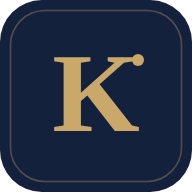
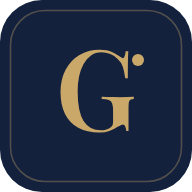
Rename app from Kova to Gochat

Changed region(s): [[0.2812, 0.25, 0.75, 0.7188]]

diff --git a/src/pages/SettingsPage.jsx b/src/pages/SettingsPage.jsx
@@ -193,14 +193,14 @@ function Notifications() {
     if (p === 'granted') {
       setPrefs({ notifications: true });
       const ok = await enablePush();
-      toast(ok ? 'Notifications are on — even when Kova is closed' : 'Notifications are on while Kova is open', { icon: 'notifications_active' });
+      toast(ok ? 'Notifications are on — even when Gochat is closed' : 'Notifications are on while Gochat is open', { icon: 'notifications_active' });
     }
     else toast('Notifications were blocked. You can allow them in your browser’s site settings.', { error: true });
   };
   return (
     <Card title="Notifications & chimes" icon="notifications">
       <div className="divide-y divide-[rgb(var(--line)/0.15)]">
-        <SettingRow title="Desktop & phone alerts" sub={perm === 'granted' ? (pushSupported() ? 'You will be alerted even when Kova is closed' : 'Shown while Kova is open in the background') : perm === 'denied' ? 'Blocked in your browser settings' : perm === 'unsupported' ? 'Not supported in this browser' : 'Allow Kova to show alerts'}>
+        <SettingRow title="Desktop & phone alerts" sub={perm === 'granted' ? (pushSupported() ? 'You will be alerted even when Gochat is closed' : 'Shown while Gochat is open in the background') : perm === 'denied' ? 'Blocked in your browser settings' : perm === 'unsupported' ? 'Not supported in this browser' : 'Allow Gochat to show alerts'}>
           {perm === 'granted' ? <Toggle checked={prefs.notifications} onChange={(v) => { setPrefs({ notifications: v }); if (v) enablePush(); else disablePush(); }} /> :
             <button className="btn-outline !h-9 !px-3" onClick={ask} disabled={perm === 'unsupported' || perm === 'denied'}>Allow</button>}
         </SettingRow>
@@ -211,7 +211,7 @@ function Notifications() {
           </div>
         </SettingRow>
       </div>
-      <p className="text-xs text-muted mt-4 leading-5">Tip: on phones, add Kova to your home screen (browser menu → “Add to Home screen”) so it opens like an app. On iPhone, notifications only work after adding Kova to the home screen (iOS 16.4 or later).</p>
+      <p className="text-xs text-muted mt-4 leading-5">Tip: on phones, add Gochat to your home screen (browser menu → “Add to Home screen”) so it opens like an app. On iPhone, notifications only work after adding Gochat to the home screen (iOS 16.4 or later).</p>
     </Card>
   );
 }
@@ -309,32 +309,32 @@ function Account() {
 function About() {
   const { me, toast } = useApp();
   const share = async () => {
-    const text = `Join me on Kova — find me as @${me.username}: ${window.location.origin}`;
-    try { if (navigator.share) await navigator.share({ title: 'Kova', text }); else { await navigator.clipboard.writeText(text); toast('Invite copied'); } } catch { /* ignore */ }
+    const text = `Join me on Gochat — find me as @${me.username}: ${window.location.origin}`;
+    try { if (navigator.share) await navigator.share({ title: 'Gochat', text }); else { await navigator.clipboard.writeText(text); toast('Invite copied'); } } catch { /* ignore */ }
   };
   return (
     <div className="space-y-5">
       <Card>
         <div className="flex flex-col items-center text-center py-4">
           <img src="/icon-192.png" alt="" className="w-20 h-20 rounded-[22%] shadow-lvl2" />
-          <h2 className="font-serif text-3xl tracking-[0.08em] text-ink mt-4">KOVA</h2>
+          <h2 className="font-serif text-3xl tracking-[0.08em] text-ink mt-4">GOCHAT</h2>
           <p className="font-serif italic text-gold-ink text-lg">Speak freely, stay close</p>
           <p className="text-xs text-muted mt-2">Version 1.0</p>
         </div>
       </Card>
-      <Card title="How Kova works" icon="help">
+      <Card title="How Gochat works" icon="help">
         <ul className="space-y-3 text-sm text-ink/90">
           {[
             ['chat_bubble', 'Find friends by their @username and chat in real time — with photos, videos, documents and voice notes.'],
             ['groups', 'Create groups, share an invite link, and make other members admins.'],
             ['hub', 'Start a channel to publish posts. Followers react and comment; comments arrive in your Activity inbox.'],
-            ['call', 'Voice and video calls connect your two devices directly. Both people need Kova open.'],
+            ['call', 'Voice and video calls connect your two devices directly. Both people need Gochat open.'],
             ['auto_awesome', 'Moments are shared with people you chat with and vanish after 24 hours.'],
           ].map(([i, t]) => <li key={t} className="flex gap-3"><Icon name={i} size={20} className="text-gold-ink mt-0.5" /> <span>{t}</span></li>)}
         </ul>
         <button className="btn-primary w-full mt-5" onClick={share}><Icon name="share" size={18} /> Invite friends</button>
       </Card>
-      <Quote cite="Kova">Words composed with care endure like bronze.</Quote>
+      <Quote cite="Gochat">Words composed with care endure like bronze.</Quote>
     </div>
   );
 }

diff --git a/src/pages/Welcome.jsx b/src/pages/Welcome.jsx
@@ -41,7 +41,7 @@ export default function Welcome() {
         <div className="absolute -right-10 -top-10 w-[300px] h-[300px] rounded-full border border-[#C9A86A]/20" />
         <div className="flex items-center gap-3 relative">
           <Logo size={44} className="!shadow-none" />
-          <span className="font-serif text-2xl tracking-[0.2em]">KOVA</span>
+          <span className="font-serif text-2xl tracking-[0.2em]">GOCHAT</span>
         </div>
         <div className="relative max-w-md">
           <p className="text-[11px] tracking-[0.2em] uppercase text-[#C9A86A] mb-4">Correspondence, refined</p>
@@ -81,10 +81,10 @@ export default function Welcome() {
             <div className="relative mb-5">
               <div className="absolute inset-0 rounded-full bg-gold/30 blur-xl" />
               <div className="relative w-20 h-20 rounded-full bg-[#14213D] flex items-center justify-center ring-1 ring-gold/40">
-                <span className="font-serif text-4xl text-[#C9A86A]">K</span>
+                <span className="font-serif text-4xl text-[#C9A86A]">G</span>
               </div>
             </div>
-            <h1 className="font-serif text-[40px] leading-none tracking-[0.06em] text-ink">KOVA</h1>
+            <h1 className="font-serif text-[40px] leading-none tracking-[0.06em] text-ink">GOCHAT</h1>
             <p className="font-serif italic text-2xl text-gold-ink mt-3">Speak freely, stay close</p>
             <div className="gold-rule w-20 mt-5" />
           </div>
@@ -94,7 +94,7 @@ export default function Welcome() {
               <span className="eyebrow">{mode === 'register' ? 'Step 01 / Registry' : 'Welcome back'}</span>
               <span className="text-label-md text-muted">Confidential</span>
             </div>
-            <h2 className="font-serif text-[26px] text-ink">{mode === 'register' ? 'Create your account' : 'Sign in to Kova'}</h2>
+            <h2 className="font-serif text-[26px] text-ink">{mode === 'register' ? 'Create your account' : 'Sign in to Gochat'}</h2>
             <p className="text-sm text-muted mt-1 mb-5 leading-6">
               {mode === 'register'
                 ? 'Claim your name and start writing to the people who matter.'
@@ -187,7 +187,7 @@ export default function Welcome() {
           <Icon name="history_edu" className="text-gold-ink mt-1" />
           <div>
             <p className="font-serif italic text-xl leading-7 text-ink">“True conversation is an heirloom, treasured in deliberate silence.”</p>
-            <p className="eyebrow mt-2">The Kova Companion</p>
+            <p className="eyebrow mt-2">The Gochat Companion</p>
           </div>
         </div>
       </div>

diff --git a/src/pages/ChatList.jsx b/src/pages/ChatList.jsx
@@ -74,9 +74,9 @@ export default function ChatList() {
   const [showArchived, setShowArchived] = useState(false);
   const { setPrefs, toast } = useApp();
   const [askNotif, setAskNotif] = useState(() => {
-    try { return 'Notification' in window && Notification.permission === 'default' && !localStorage.getItem('kova.notifAsked'); } catch { return false; }
+    try { return 'Notification' in window && Notification.permission === 'default' && !localStorage.getItem('gochat.notifAsked'); } catch { return false; }
   });
-  const dismissNotif = () => { setAskNotif(false); try { localStorage.setItem('kova.notifAsked', '1'); } catch { /* ignore */ } };
+  const dismissNotif = () => { setAskNotif(false); try { localStorage.setItem('gochat.notifAsked', '1'); } catch { /* ignore */ } };
   const turnOnNotif = async () => {
     dismissNotif();
     const p = await Notification.requestPermission();
@@ -121,7 +121,7 @@ export default function ChatList() {
         <div className="h-16 px-4 flex items-center gap-3">
           <Logo size={34} className="md:hidden" />
           <div className="flex-1 min-w-0">
-            <div className="eyebrow leading-none">Kova</div>
+            <div className="eyebrow leading-none">Gochat</div>
             <h1 className="font-serif text-[24px] leading-8 text-ink">{showArchived ? 'Archived' : 'Chats'}</h1>
           </div>
           <button className="btn-ghost" onClick={() => navigate('/new')} aria-label="New chat" title="New chat">
@@ -168,7 +168,7 @@ export default function ChatList() {
           <span className="w-10 h-10 rounded-full bg-gold-soft text-gold-ink flex items-center justify-center shrink-0"><Icon name="notifications_active" size={20} /></span>
           <div className="flex-1">
             <div className="font-medium text-ink">Never miss a message</div>
-            <p className="text-xs text-muted mt-0.5 leading-5">Turn on notifications to be alerted when friends write or call — even when Kova is closed.</p>
+            <p className="text-xs text-muted mt-0.5 leading-5">Turn on notifications to be alerted when friends write or call — even when Gochat is closed.</p>
             <div className="flex gap-2 mt-3">
               <button className="btn-primary !h-9 !px-4" onClick={turnOnNotif}>Turn on</button>
               <button className="btn-outline !h-9 !px-4" onClick={dismissNotif}>Not now</button>

diff --git a/src/pages/ContactProfile.jsx b/src/pages/ContactProfile.jsx
@@ -50,7 +50,7 @@ export default function ContactProfile() {
           </div>
           <div className="relative mt-3 inline-flex items-center gap-2 px-3 h-7 rounded-full bg-soft text-label-md text-ink/80">
             {live.online && <span className="w-1.5 h-1.5 rounded-full bg-gold" />}
-            {user.blockedMe ? 'Kova member' : lastSeen(live)}
+            {user.blockedMe ? 'Gochat member' : lastSeen(live)}
           </div>
           <h2 className="relative font-serif text-3xl text-ink mt-3">{user.name}</h2>
           <p className="relative text-sm text-muted mt-1">@{user.username}</p>
@@ -62,7 +62,7 @@ export default function ContactProfile() {
               ['call', 'Audio', () => startCall(user, 'voice'), false, blocked || user.blockedMe],
               ['videocam', 'Video', () => startCall(user, 'video'), false, blocked || user.blockedMe],
               ['share', 'Share', async () => {
-                const t = `Find ${user.name} on Kova: @${user.username} — ${window.location.origin}`;
+                const t = `Find ${user.name} on Gochat: @${user.username} — ${window.location.origin}`;
                 try { if (navigator.share) await navigator.share({ text: t }); else { await navigator.clipboard.writeText(t); toast('Copied'); } } catch { /* ignore */ }
               }],
             ].map(([icon, label, fn, primary, disabled]) => (
@@ -79,7 +79,7 @@ export default function ContactProfile() {
         <div className="card p-5">
           <div className="flex items-center justify-between mb-4">
             <h3 className="font-serif text-xl text-ink flex items-center gap-2"><Icon name="verified_user" className="text-gold-ink" /> Identity</h3>
-            <span className="eyebrow">Kova registry</span>
+            <span className="eyebrow">Gochat registry</span>
           </div>
           <div className="space-y-3">
             <div className="flex items-center gap-3 p-3 rounded-xl bg-soft/70">
@@ -139,7 +139,7 @@ export default function ContactProfile() {
             <Icon name="block" />
           </button>
         </div>
-        <Quote cite="Kova">A sanctuary of quiet discretion.</Quote>
+        <Quote cite="Gochat">A sanctuary of quiet discretion.</Quote>
       </div>
       <Confirm
         open={confirm}

diff --git a/src/pages/CallList.jsx b/src/pages/CallList.jsx
@@ -29,7 +29,7 @@ export default function CallList() {
         <div className="h-16 px-4 flex items-center gap-3">
           <Logo size={34} className="md:hidden" />
           <div className="flex-1">
-            <div className="eyebrow leading-none">Kova</div>
+            <div className="eyebrow leading-none">Gochat</div>
             <h1 className="font-serif text-[24px] leading-8 text-ink">Calls</h1>
           </div>
           <button className="btn-ghost" onClick={() => setPicking((p) => !p)} aria-label="New call" title="New call"><Icon name={picking ? 'close' : 'add_call'} /></button>
@@ -115,14 +115,14 @@ export default function CallList() {
           <div className="text-center py-12 px-6">
             <Icon name="call" size={40} className="text-gold-ink/70" />
             <p className="font-serif text-xl text-ink mt-2">{filter === 'missed' ? 'No missed calls' : 'No calls yet'}</p>
-            <p className="text-sm text-muted mt-1">Tap the phone icon in any chat to call. Both of you need Kova open.</p>
+            <p className="text-sm text-muted mt-1">Tap the phone icon in any chat to call. Both of you need Gochat open.</p>
           </div>
         )}
         <div className="card mt-6 p-4 flex gap-3">
           <span className="w-10 h-10 rounded-full bg-soft flex items-center justify-center text-gold-ink shrink-0"><Icon name="shield" /></span>
           <div>
             <div className="font-medium text-ink">Device-to-device calls</div>
-            <p className="text-xs text-muted leading-5 mt-0.5">Audio and video travel directly between your devices over an encrypted WebRTC connection. Kova only helps the two devices find each other.</p>
+            <p className="text-xs text-muted leading-5 mt-0.5">Audio and video travel directly between your devices over an encrypted WebRTC connection. Gochat only helps the two devices find each other.</p>
           </div>
         </div>
       </div>

diff --git a/src/pages/NewChat.jsx b/src/pages/NewChat.jsx
@@ -42,9 +42,9 @@ export default function NewChat() {
   };
 
   const invite = async () => {
-    const text = `Join me on Kova — a classic, private messenger. Sign up and find me as @${me.username}: ${window.location.origin}`;
+    const text = `Join me on Gochat — a classic, private messenger. Sign up and find me as @${me.username}: ${window.location.origin}`;
     try {
-      if (navigator.share) await navigator.share({ title: 'Kova', text });
+      if (navigator.share) await navigator.share({ title: 'Gochat', text });
       else { await navigator.clipboard.writeText(text); toast('Invite copied — paste it to your friends'); }
     } catch { /* cancelled */ }
   };
@@ -58,7 +58,7 @@ export default function NewChat() {
           {[
             ['group_add', 'New group', 'Gather several people in one chat', () => navigate('/new-group')],
             ['hub', 'New channel', 'Broadcast posts to your followers', () => navigate('/channels/new')],
-            ['share', 'Invite friends to Kova', 'Share a link to the app', invite],
+            ['share', 'Invite friends to Gochat', 'Share a link to the app', invite],
           ].map(([icon, title, sub, fn]) => (
             <button key={title} onClick={fn} className="w-full flex items-center gap-4 px-4 py-3.5 text-left hover:bg-soft/60">
               <span className="w-11 h-11 rounded-full bg-gold-soft text-gold-ink flex items-center justify-center"><Icon name={icon} /></span>
@@ -72,7 +72,7 @@ export default function NewChat() {
         </div>
 
         <div className="flex items-center justify-between px-1 mt-6 mb-2">
-          <span className="eyebrow">{q ? 'People on Kova' : 'Your contacts'}</span>
+          <span className="eyebrow">{q ? 'People on Gochat' : 'Your contacts'}</span>
           {loading && <Spinner size={16} />}
         </div>
         <div className="card overflow-hidden divide-y divide-[rgb(var(--line)/0.15)]">

diff --git a/src/pages/SettingsMenu.jsx b/src/pages/SettingsMenu.jsx
@@ -10,7 +10,7 @@ export const SECTIONS = [
   ['starred', 'star', 'Starred messages', 'Messages you saved'],
   ['blocked', 'block', 'Blocked contacts', 'People who cannot reach you'],
   ['account', 'manage_accounts', 'Account', 'Password, sign out, delete'],
-  ['about', 'info', 'About Kova', 'Version and help'],
+  ['about', 'info', 'About Gochat', 'Version and help'],
 ];
 
 export default function SettingsMenu() {
@@ -24,7 +24,7 @@ export default function SettingsMenu() {
         <div className="h-16 px-4 flex items-center gap-3">
           <Logo size={34} className="md:hidden" />
           <div className="flex-1">
-            <div className="eyebrow leading-none">Kova</div>
+            <div className="eyebrow leading-none">Gochat</div>
             <h1 className="font-serif text-[24px] leading-8 text-ink">Settings</h1>
           </div>
           <button className="btn-ghost" onClick={() => setPrefs({ theme: dark ? 'light' : 'dark' })} aria-label="Toggle dark mode" title="Toggle dark mode">
@@ -64,7 +64,7 @@ export default function SettingsMenu() {
           <Icon name="logout" size={20} /> Sign out
         </button>
         <p className="text-center font-serif italic text-gold-ink/80 text-[14px] mt-8">“True conversation is an heirloom, treasured in deliberate silence.”</p>
-        <p className="text-center eyebrow !text-muted mt-2">Kova · v1.0</p>
+        <p className="text-center eyebrow !text-muted mt-2">Gochat · v1.0</p>
       </div>
     </div>
   );

diff --git a/src/pages/ChannelList.jsx b/src/pages/ChannelList.jsx
@@ -11,13 +11,13 @@ export function useChannels() {
   useEffect(() => { load(); }, [load]);
   useSocketEvent('channel:post', load);
   useEffect(() => {
-    window.addEventListener('kova:channels', load);
-    return () => window.removeEventListener('kova:channels', load);
+    window.addEventListener('gochat:channels', load);
+    return () => window.removeEventListener('gochat:channels', load);
   }, [load]);
   return { data, load };
 }
 
-export const refreshChannels = () => window.dispatchEvent(new Event('kova:channels'));
+export const refreshChannels = () => window.dispatchEvent(new Event('gochat:channels'));
 
 function ChannelRow({ c, active, onClick, action }) {
   const preview = c.lastPost ? (c.lastPost.body || (c.lastPost.mediaType === 'image' ? '📷 Photo' : c.lastPost.mediaType === 'video' ? '🎬 Video' : '📎 Attachment')) : c.description || 'No posts yet';
@@ -72,7 +72,7 @@ export default function ChannelList() {
         <div className="h-16 px-4 flex items-center gap-3">
           <Logo size={34} className="md:hidden" />
           <div className="flex-1">
-            <div className="eyebrow leading-none">Kova</div>
+            <div className="eyebrow leading-none">Gochat</div>
             <h1 className="font-serif text-[24px] leading-8 text-ink">Channels</h1>
           </div>
           <button className="btn-ghost relative" onClick={() => navigate('/activity')} aria-label="Activity" title="Activity">

diff --git a/index.html b/index.html
@@ -4,8 +4,8 @@
     <meta charset="UTF-8" />
     <meta name="viewport" content="width=device-width, initial-scale=1.0, viewport-fit=cover" />
     <meta name="theme-color" content="#FAF7F2" />
-    <meta name="description" content="Kova — a classic, private messenger. Chats, groups, channels, moments and calls." />
-    <title>Kova — Speak freely, stay close</title>
+    <meta name="description" content="Gochat — a classic, private messenger. Chats, groups, channels, moments and calls." />
+    <title>Gochat — Speak freely, stay close</title>
     <link rel="icon" type="image/png" href="/icon-192.png" />
     <link rel="apple-touch-icon" href="/icon-192.png" />
     <link rel="manifest" href="/manifest.webmanifest" />
@@ -16,7 +16,7 @@
     <script>
       // Apply the saved theme before first paint to avoid a flash
       try {
-        var t = localStorage.getItem('kova.theme') || 'system';
+        var t = localStorage.getItem('gochat.theme') || 'system';
         var dark = t === 'dark' || (t === 'system' && window.matchMedia('(prefers-color-scheme: dark)').matches);
         if (dark) document.documentElement.classList.add('dark');
       } catch (e) {}

diff --git a/src/App.jsx b/src/App.jsx
@@ -29,9 +29,9 @@ function Boot() {
   return (
     <div className="h-[100dvh] flex flex-col items-center justify-center gap-6 bg-canvas">
       <Logo size={64} />
-      <div className="font-serif text-3xl tracking-wide text-ink">KOVA</div>
+      <div className="font-serif text-3xl tracking-wide text-ink">GOCHAT</div>
       <Spinner />
-      {slow && <p className="text-sm text-muted text-center max-w-xs px-6">Waking up the Kova server… on the free plan this can take up to a minute the first time.</p>}
+      {slow && <p className="text-sm text-muted text-center max-w-xs px-6">Waking up the Gochat server… on the free plan this can take up to a minute the first time.</p>}
     </div>
   );
 }
@@ -52,8 +52,8 @@ export default function App() {
 
   useEffect(() => {
     const go = (e) => navigate(e.detail);
-    window.addEventListener('kova:navigate', go);
-    return () => window.removeEventListener('kova:navigate', go);
+    window.addEventListener('gochat:navigate', go);
+    return () => window.removeEventListener('gochat:navigate', go);
   }, [navigate]);
 
   if (booting) return <Boot />;

diff --git a/src/lib/push.js b/src/lib/push.js
@@ -9,7 +9,7 @@ export async function registerServiceWorker() {
   try {
     registration = await navigator.serviceWorker.register('/sw.js');
     navigator.serviceWorker.addEventListener('message', (e) => {
-      if (e.data?.type === 'navigate') window.dispatchEvent(new CustomEvent('kova:navigate', { detail: e.data.url }));
+      if (e.data?.type === 'navigate') window.dispatchEvent(new CustomEvent('gochat:navigate', { detail: e.data.url }));
     });
     return registration;
   } catch {
@@ -61,7 +61,7 @@ export async function showLocalNotification(title, options) {
   } catch { /* fall back */ }
   try {
     const n = new Notification(title, options);
-    n.onclick = () => { window.focus(); if (options?.data?.url) window.dispatchEvent(new CustomEvent('kova:navigate', { detail: options.data.url })); n.close(); };
+    n.onclick = () => { window.focus(); if (options?.data?.url) window.dispatchEvent(new CustomEvent('gochat:navigate', { detail: options.data.url })); n.close(); };
   } catch { /* unsupported */ }
   return null;
 }

diff --git a/src/context/AppContext.jsx b/src/context/AppContext.jsx
@@ -287,7 +287,7 @@ export function AppProvider({ children }) {
     };
     const onNotification = (n) => {
       setNotifCount((c) => c + 1);
-      notify('Kova', n.text, { tag: `n-${n.id}`, url: n.postId ? `/posts/${n.postId}` : '/activity' });
+      notify('Gochat', n.text, { tag: `n-${n.id}`, url: n.postId ? `/posts/${n.postId}` : '/activity' });
       toast(n.text, { icon: n.type === 'comment' || n.type === 'reply' ? 'chat_bubble' : 'notifications', to: n.postId ? `/posts/${n.postId}` : n.channelId ? `/channels/${n.channelId}` : '/activity' });
     };
     const onChannelPost = ({ post, channelName }) => {
@@ -332,7 +332,7 @@ export function AppProvider({ children }) {
     [conversations]
   );
   useEffect(() => {
-    document.title = totalUnread ? `(${totalUnread}) Kova` : 'Kova — Speak freely, stay close';
+    document.title = totalUnread ? `(${totalUnread}) Gochat` : 'Gochat — Speak freely, stay close';
   }, [totalUnread]);
 
   const value = {
